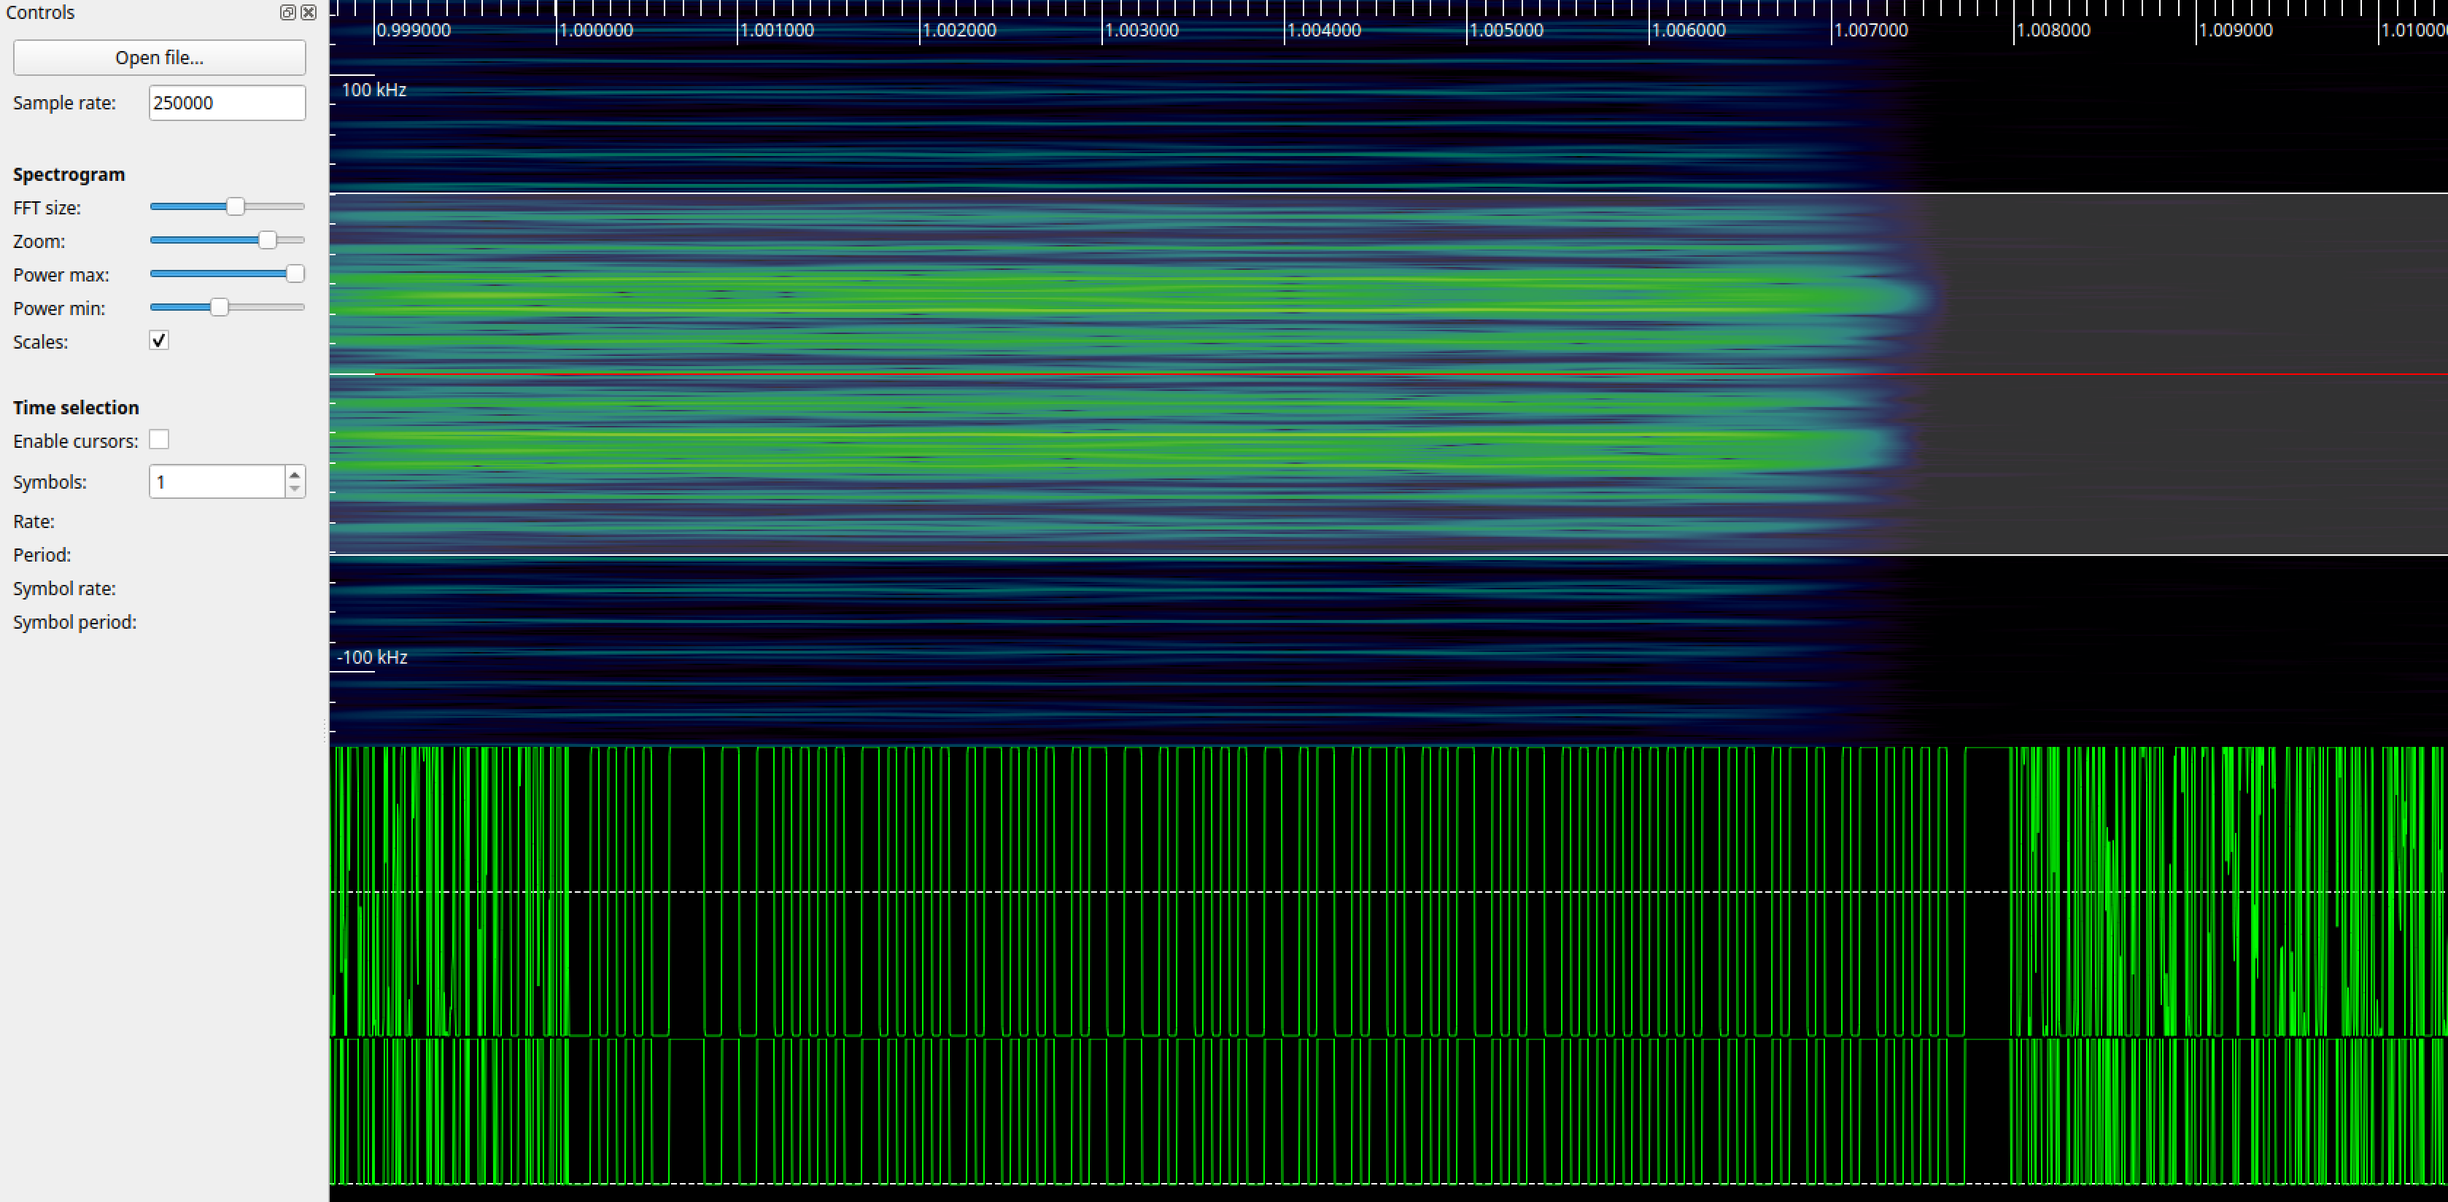
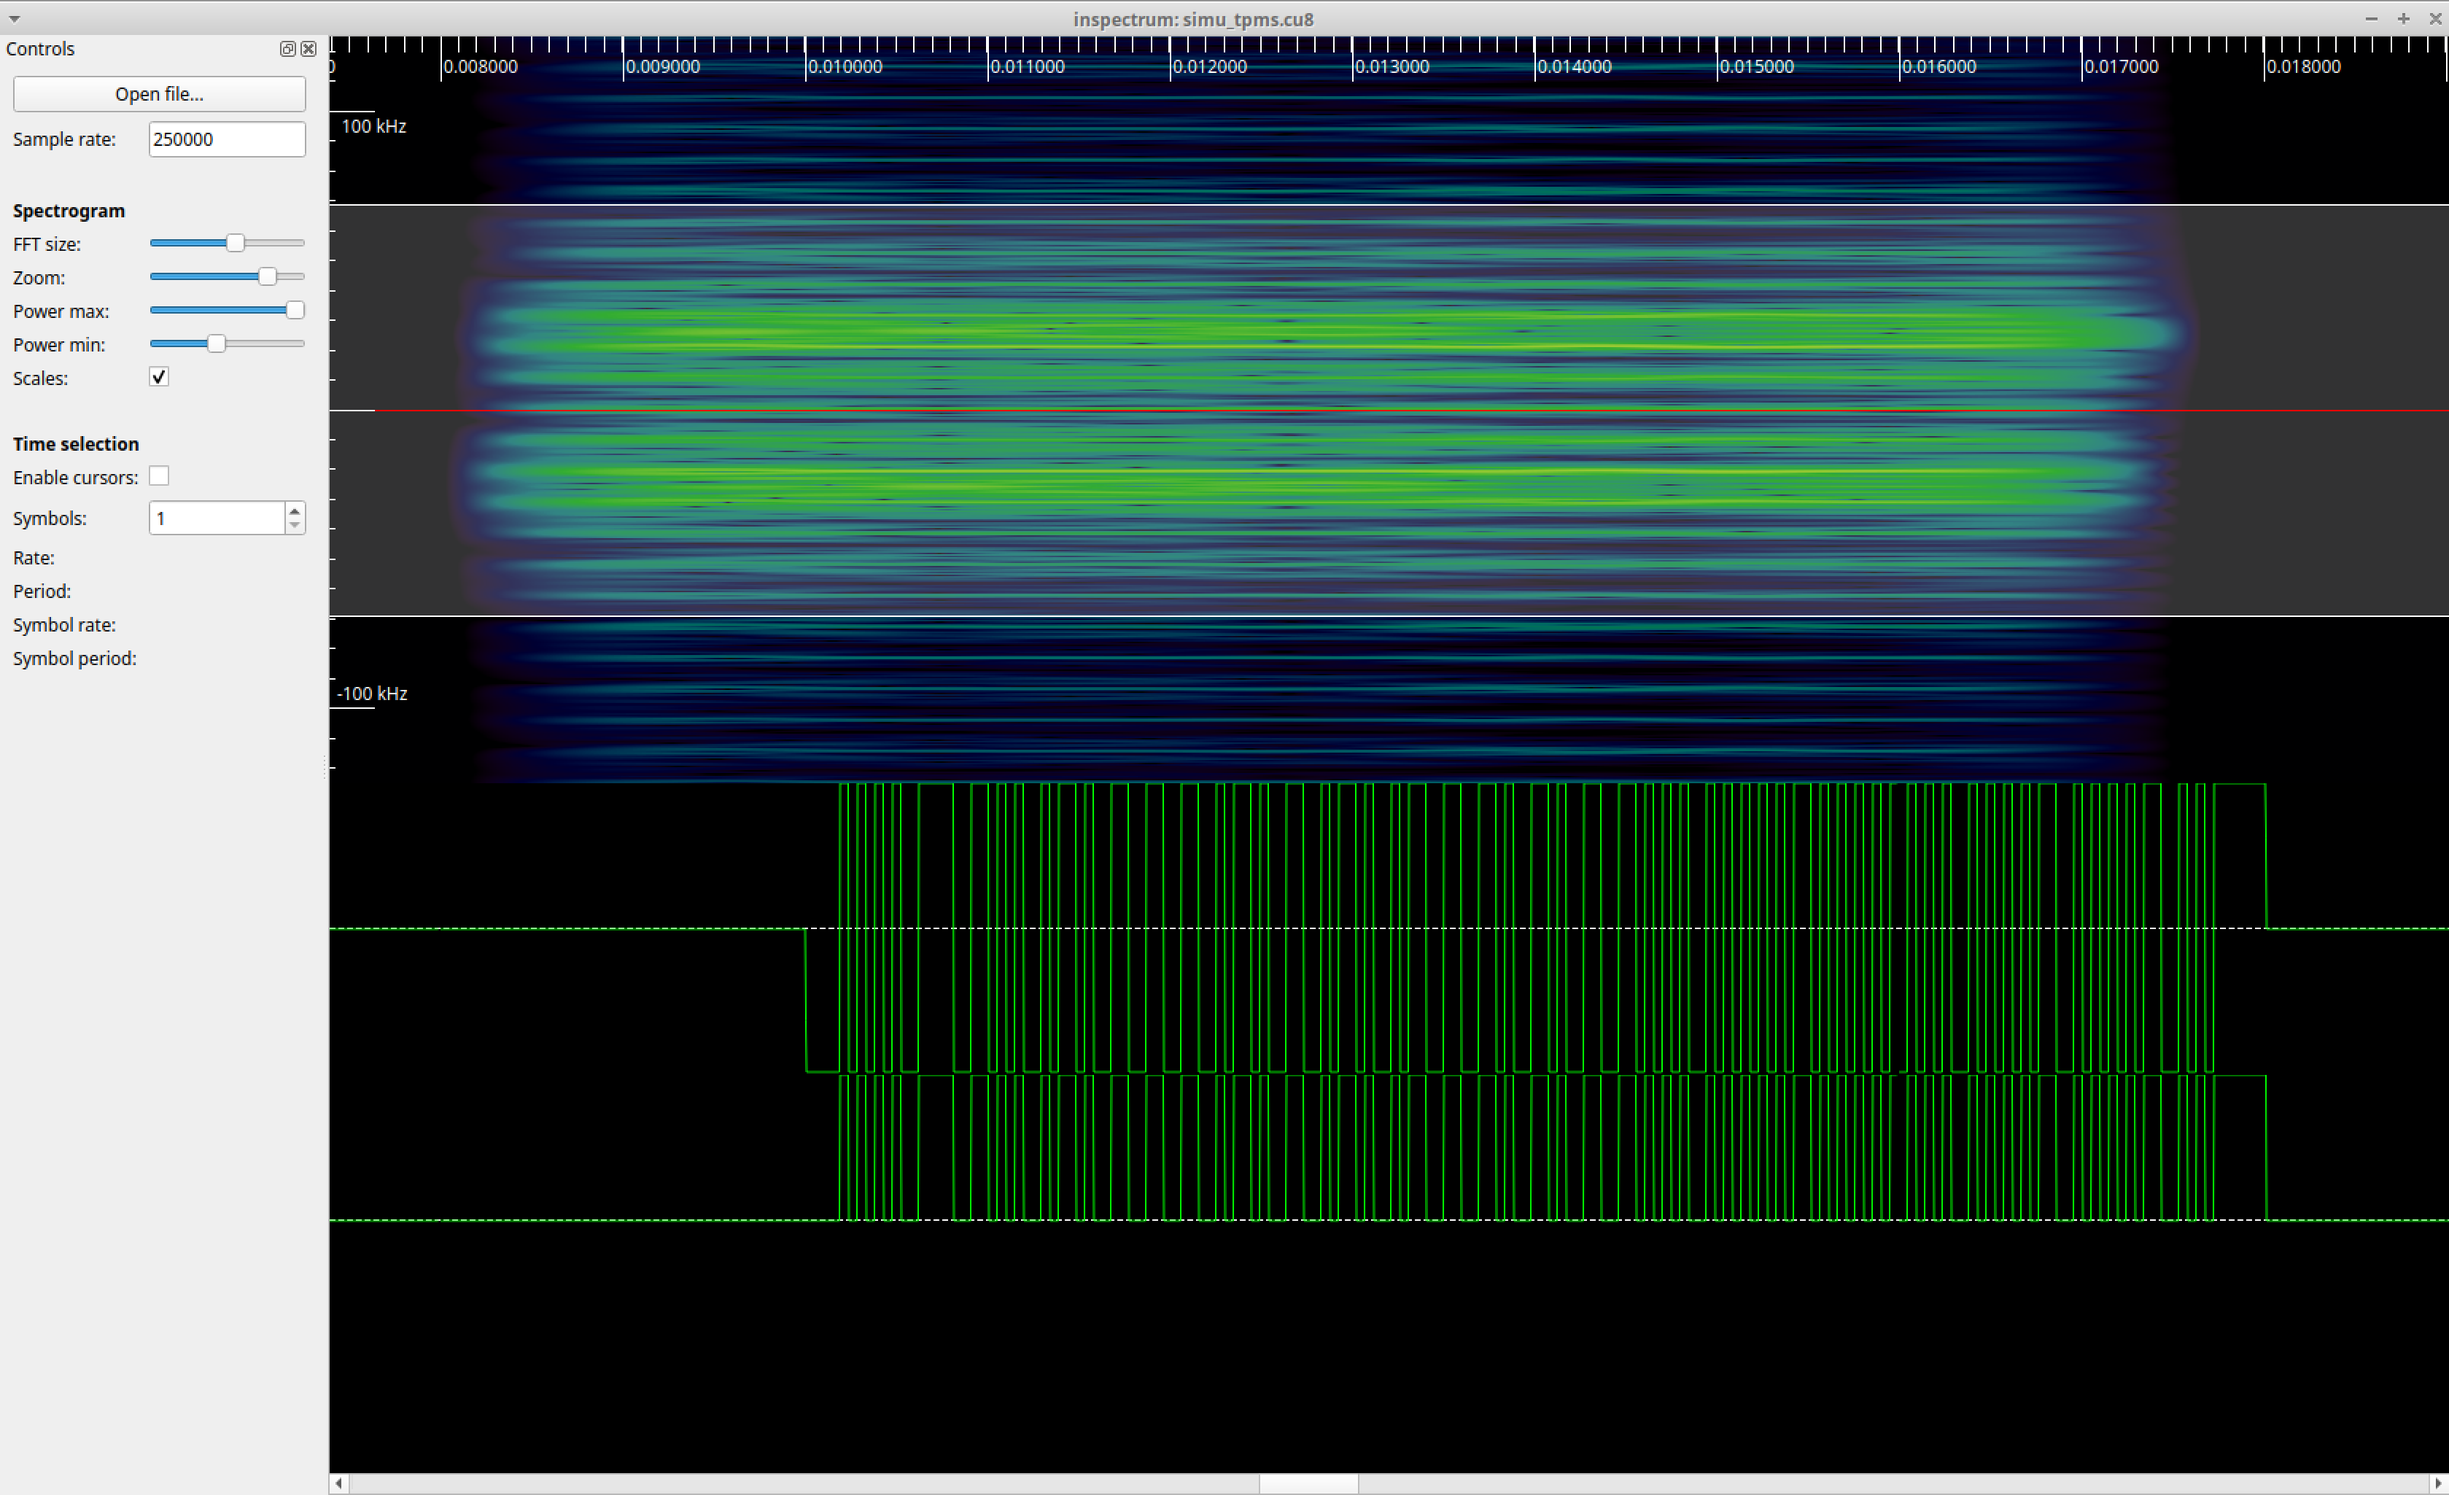
Update screenshot

diff --git a/README.md b/README.md
@@ -186,7 +186,7 @@ You can test the simulated tpms sensors with [**rtl_433**](https://github.com/me
 It should output the following decoding:
 
 	_ _ _ _ _ _ _ _ _ _ _ _ _ _ _ _ _ _ _ _ _ _ _ _ _ _ _ _ _ _ _ _ _ _ _ _ _ _ _ _ _ _ _ _ _ _ _
-	time      : @1.000000s
+	time      : @0.010000s
 	model     : Toyota       type      : TPMS          id        : cafebabe
 	status    : 128          pressure_PSI: 40.000      temperature_C: 25.000     mic       : CRC
 
